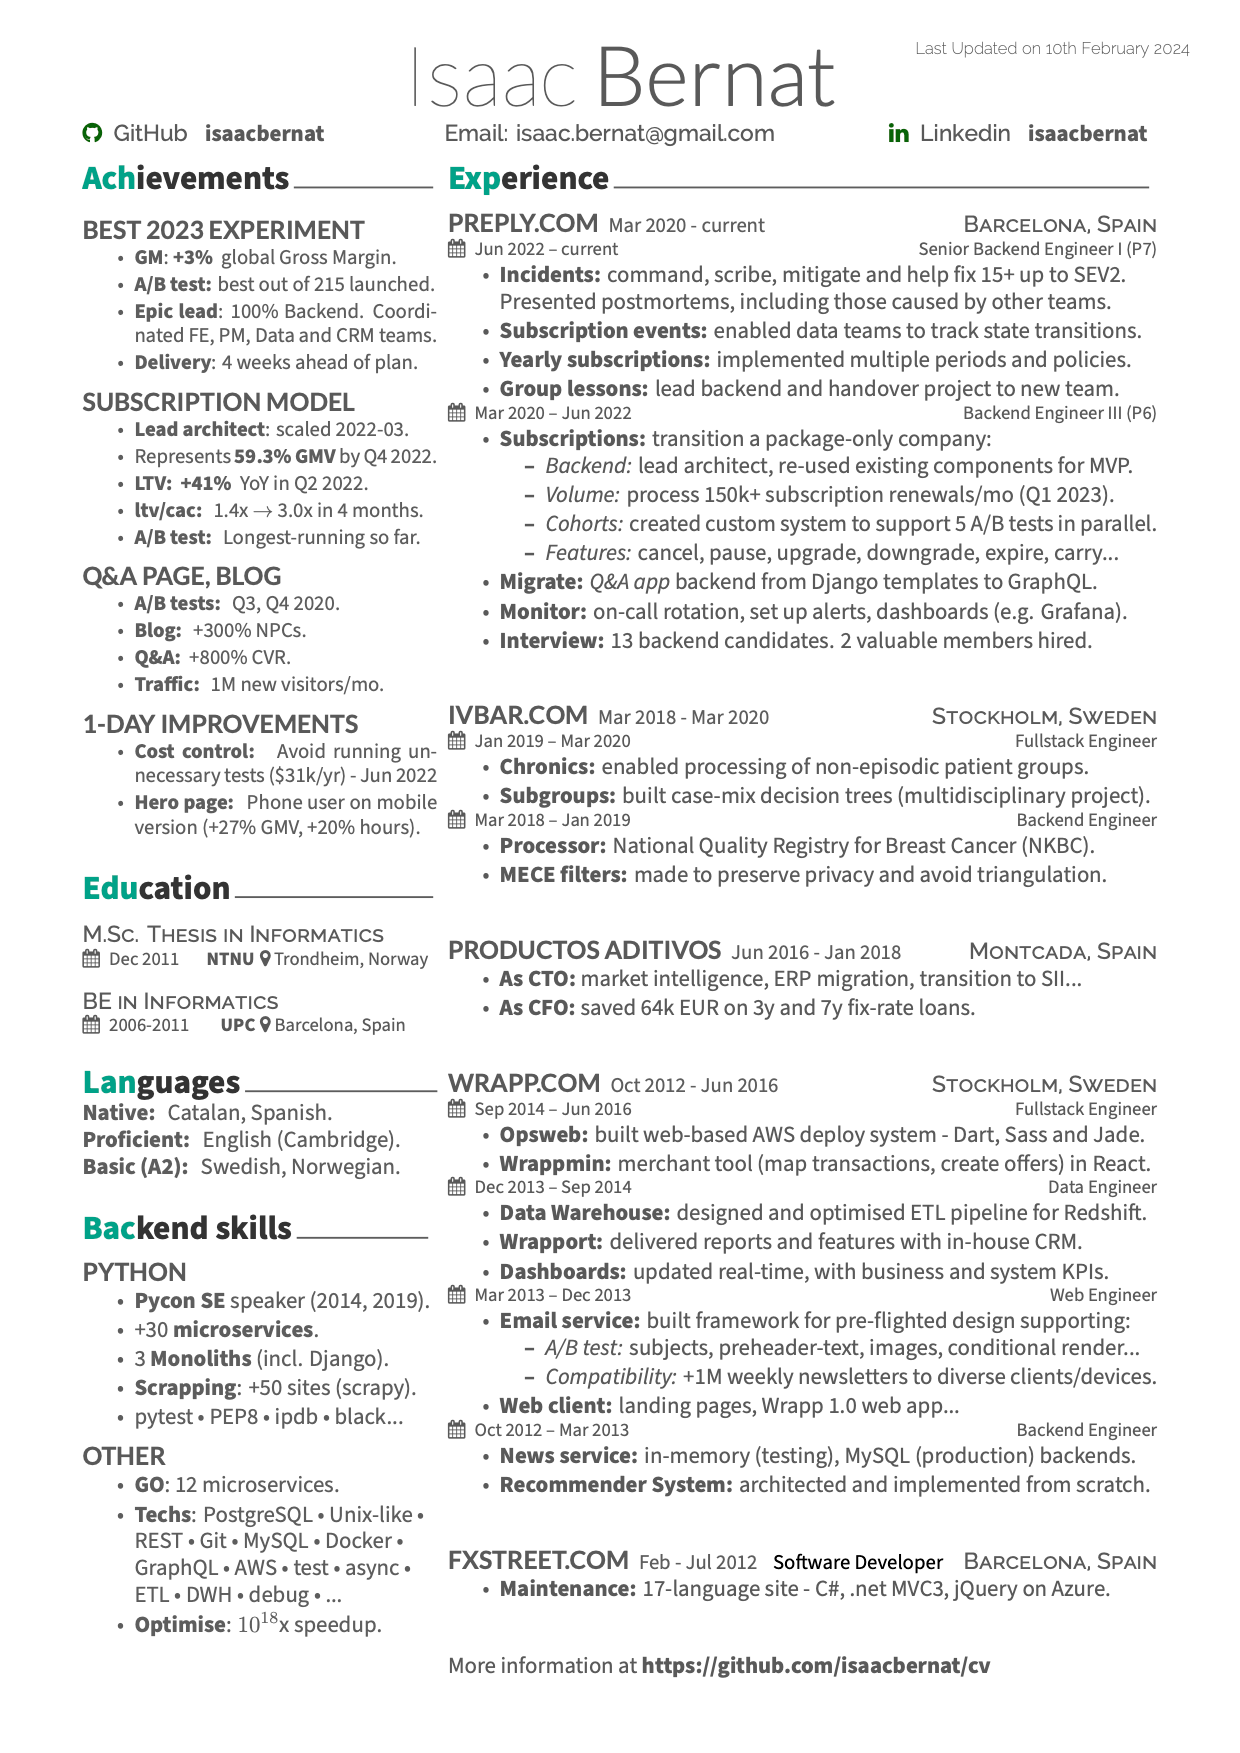
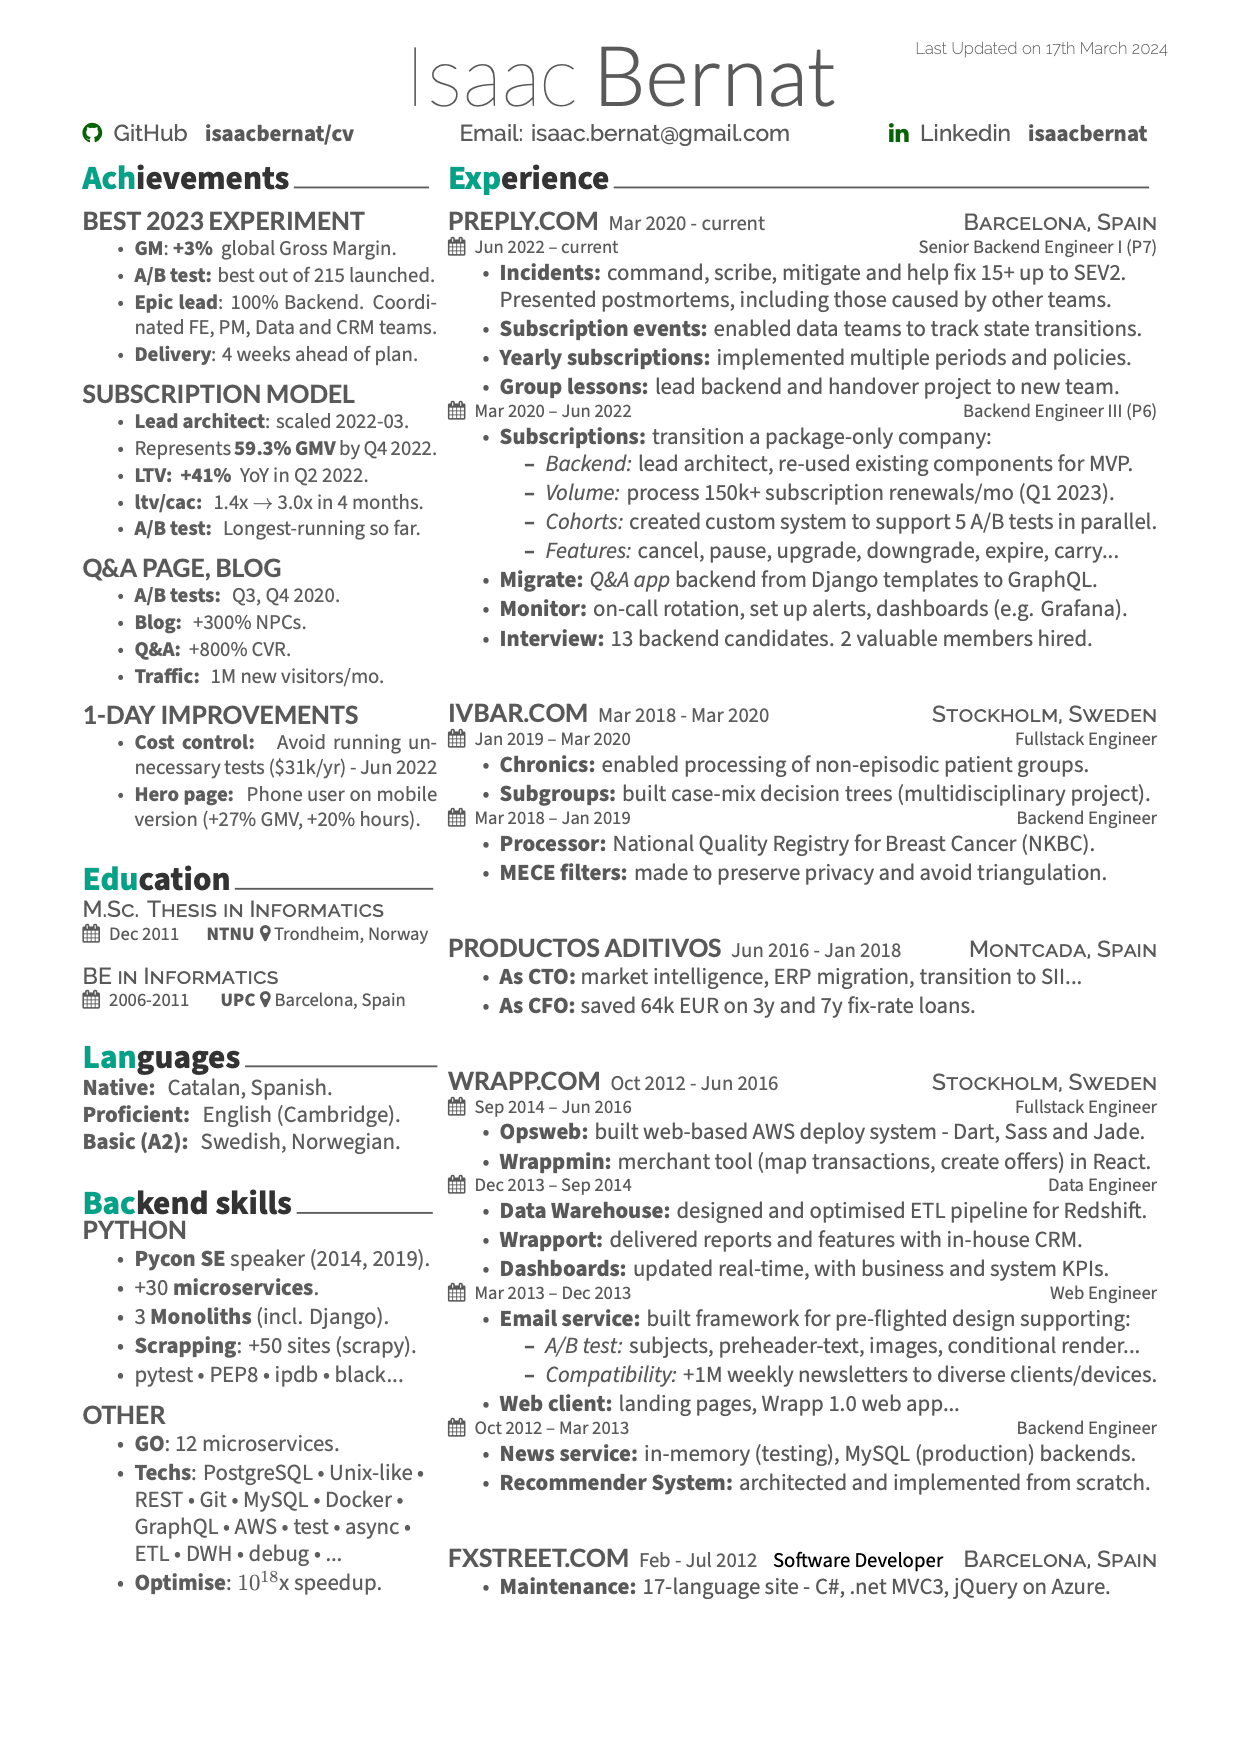
Remove footer

diff --git a/src/magical_cv.tex b/src/magical_cv.tex
@@ -43,7 +43,7 @@
 % Title name
 \namesection{Isaac}{Bernat}{
 
-\github{GitHub} \href{https://github.com/isaacbernat}{\bf isaacbernat}
+\github{GitHub} \href{https://github.com/isaacbernat/cv}{\bf isaacbernat/cv}
 \null\hfill
 { Email: \href{mailto:isaac.bernat@gmail.com}{isaac.bernat@gmail.com}}
  \null\hfill
@@ -54,7 +54,8 @@
 \begin{minipage}[t]{0.33\textwidth}
 
 % Achievements
-\cvsection{Achievements} \\
+\cvsection{Achievements}
+\sectionsep
 \subsection{Best 2023 experiment}
 \begin{tightemize}
 \item {\bf GM}: {\bf +3\% } global Gross Margin.
@@ -96,7 +97,6 @@
 % Education
 \cvsection{Education}
 
-\sectionsep
 \descript { M.Sc. Thesis in Informatics}
 \cvevent{Dec 2011}{\hspace*{-1.3cm} {\bf NTNU} \hspace*{0.2cm} Trondheim, Norway}
 \vspace{\topsep} % Hacky fix for awkward extra vertical space
@@ -119,14 +119,13 @@
 
 % Skills
 \cvsection{Backend skills}
-\sectionsep
 \subsection{Python}
 \begin{tightemize}
 \item {\bf Pycon SE} speaker (2014, 2019). % (https://youtu.be/asZ0SDTKqvM)
 \item +30 {\bf microservices}.
 \item 3 {\bf Monoliths} (incl. Django).
 \item {\bf Scrapping}: +50 sites (scrapy).
-\item pytest \textbullet{} PEP8 \textbullet{} ipdb \textbullet{} black... 
+\item pytest \textbullet{} PEP8 \textbullet{} ipdb \textbullet{} black...
 \end{tightemize}
 \sectionsep
 
@@ -135,7 +134,7 @@
 \item {\bf GO}: 12 microservices.
 \item {\bf Techs}: PostgreSQL \textbullet{} Unix-like \textbullet{} REST \textbullet{} Git \textbullet{} MySQL \textbullet{} Docker \textbullet{}
  GraphQL \textbullet{} AWS \textbullet{} test \textbullet{} async \textbullet{} ETL \textbullet{} DWH \textbullet{} debug \textbullet{} ...
-\item {\bf Optimise}: $10^{18}$x speedup. 
+\item {\bf Optimise}: $10^{18}$x speedup.
 \end{tightemize}
 
 % Column two
@@ -146,6 +145,7 @@
 % Experience
 \cvsection{Experience}
 \sectionsep
+\vspace{-1pt}
 
 \runsubsection{Preply.com}
 \textcolor{gray}{\fontsize{10pt}{12pt}\selectfont Mar 2020 - current}
@@ -265,14 +265,6 @@
 \begin{tightemize}
 \item {\bf Maintenance:} 17-language site - C\#, .net MVC3, jQuery on Azure.
 \end{tightemize}
-
-\sectionsep
-\sectionsep
-\sectionsep
-
-% \hspace{0.9cm}
-More information at \href{https://github.com/isaacbernat/cv}{\bf https://github.com/isaacbernat/cv}
-
 
 \end{minipage}
 \end{document}
